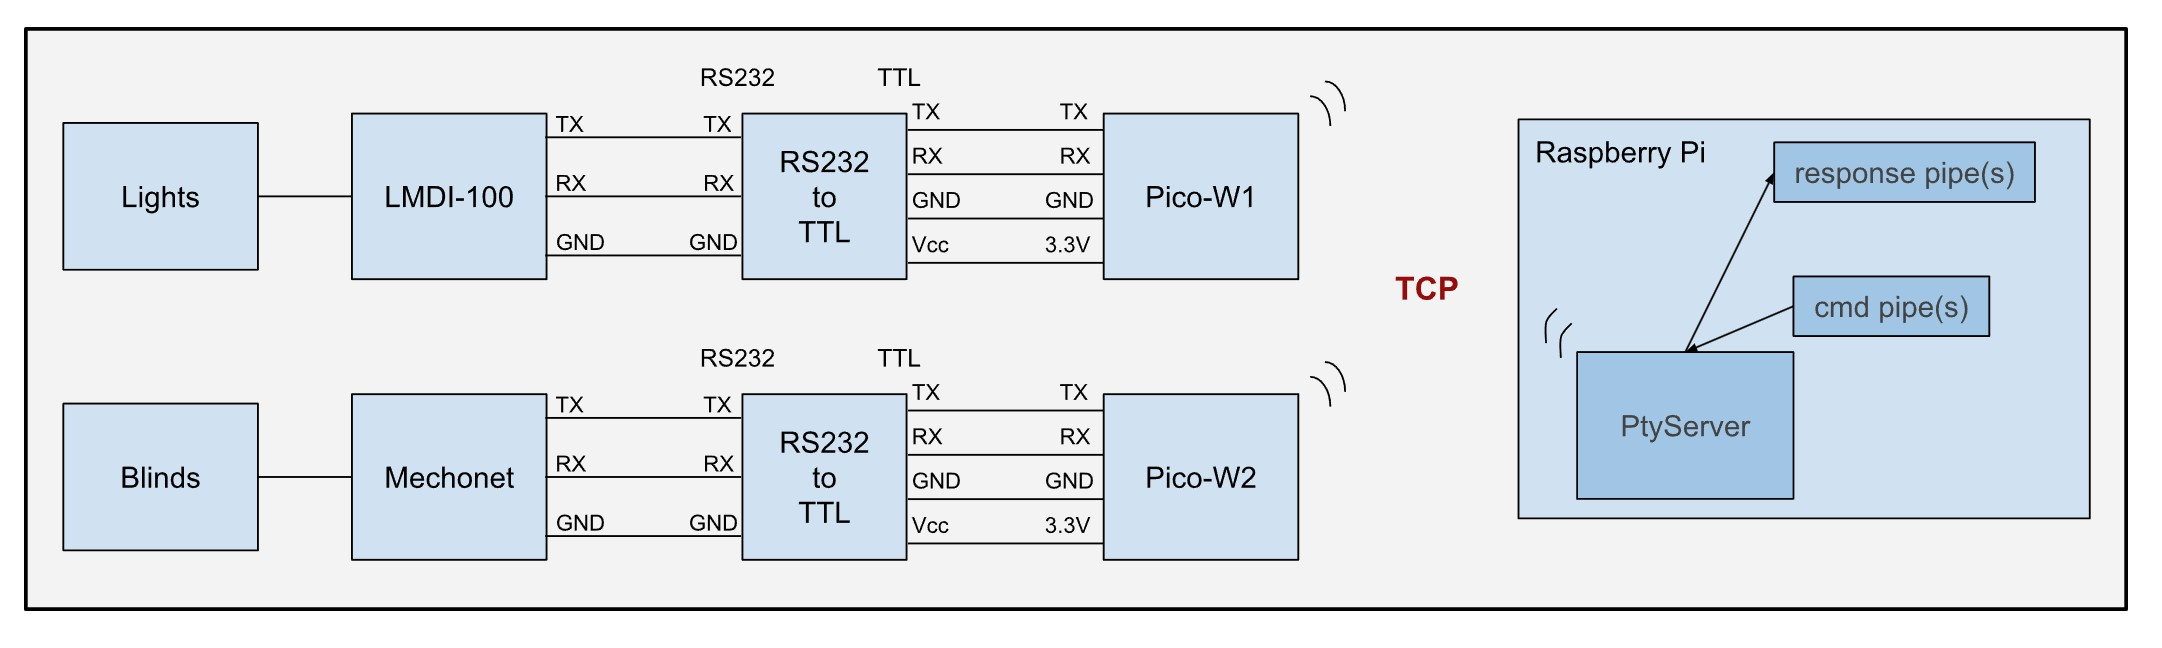
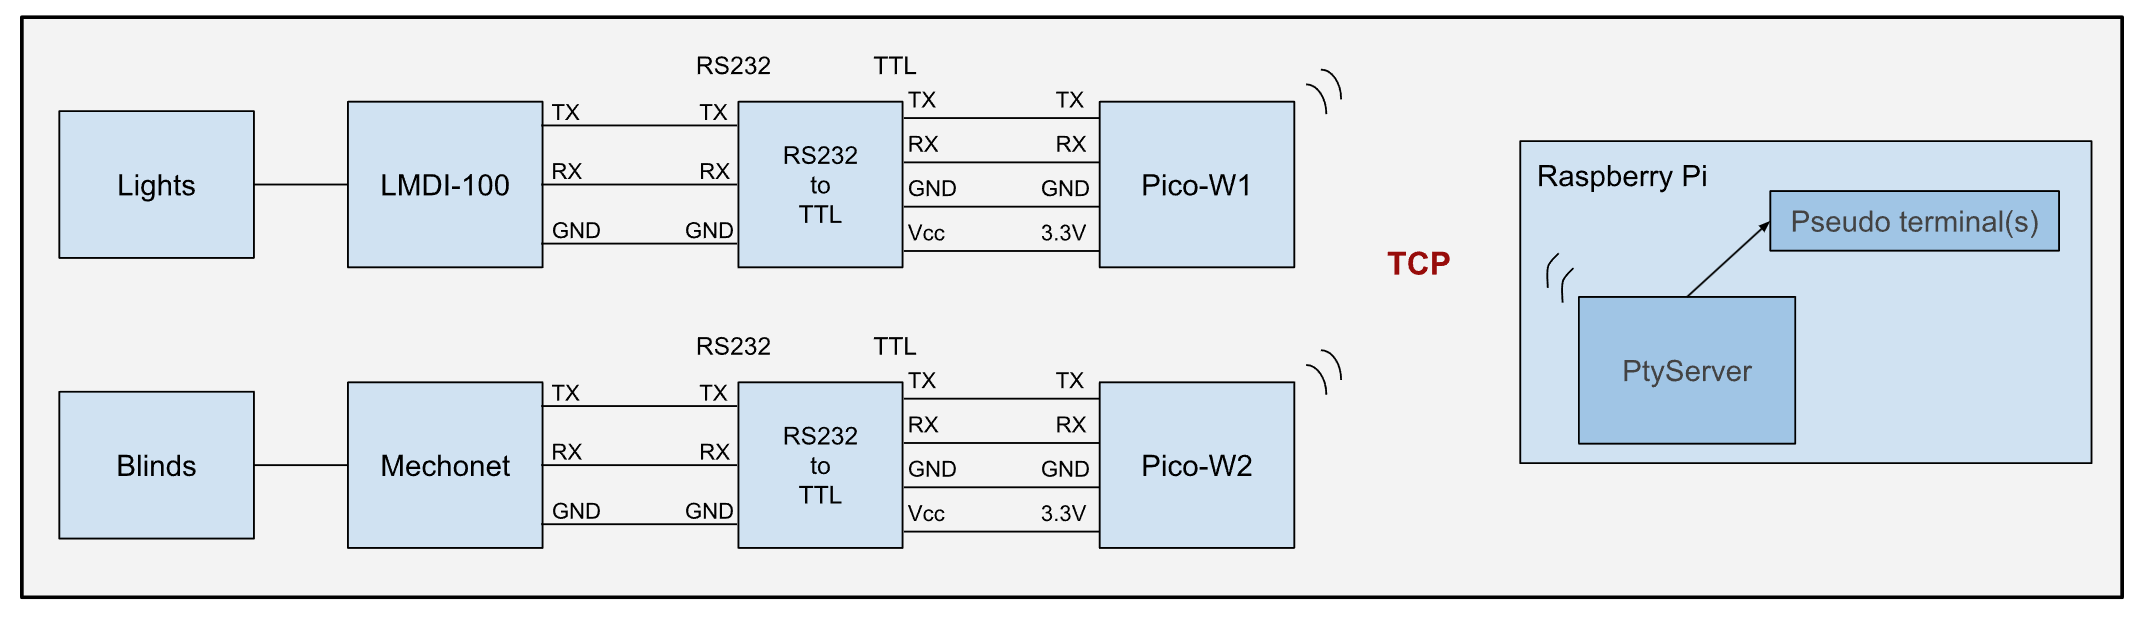
Updated block diagram with Pty instead of files

diff --git a/src/pi/PtyServer.js b/src/pi/PtyServer.js
@@ -140,7 +140,7 @@ const server = net.createServer((socket) => {
 
     socket.on('close', () => {
         if (picoNumber) {
-            logger.warn(`Pico${picoNumber} client disconnected`);
+            logger.warn(`Pico${picoNumber} socket close event triggered; ignored this event`);
         }
     });
 

diff --git a/README.md b/README.md
@@ -2,6 +2,10 @@
 Ever need a serial port far away from your Raspberry Pi? Wish you could use WiFi to talk to a serial device without having to run a wire? This project is for you.
 
 ## Installation
+<a href="https://www.youtube.com/shorts/CbkAj24SPnE" target="_blank">
+    <img src="./img/3.jpg" alt="Pico-Pi connection" style="width:40%; height:50%;" align="right"/>
+</a>
+
 ```
 sudo npm i -g remote-serial-pico
 remote-serial-pico i
@@ -18,9 +22,6 @@ If you haven't already installed npm:
 sudo apt update
 sudo apt install nodejs npm
 ```
-
-Click to see the pico plugged into pi
-    [![Pico-Pi connection](img/3.jpg)](https://www.youtube.com/shorts/CbkAj24SPnE)
 
 ### Background
 Designed to facilitate communication between a remote device (such as a Raspberry Pi) and a device connected via serial to the Pico. It leverages TCP/IP networking to bridge data exchange between the Pico's serial interface and a networked environment. Extend this project using either the [`node-red-bridge`](https://github.com/RajkumarGara/node-red-bridge) or [`homebridge-tcp-smarthome`](https://github.com/RajkumarGara/homebridge-tcp-smarthome).
